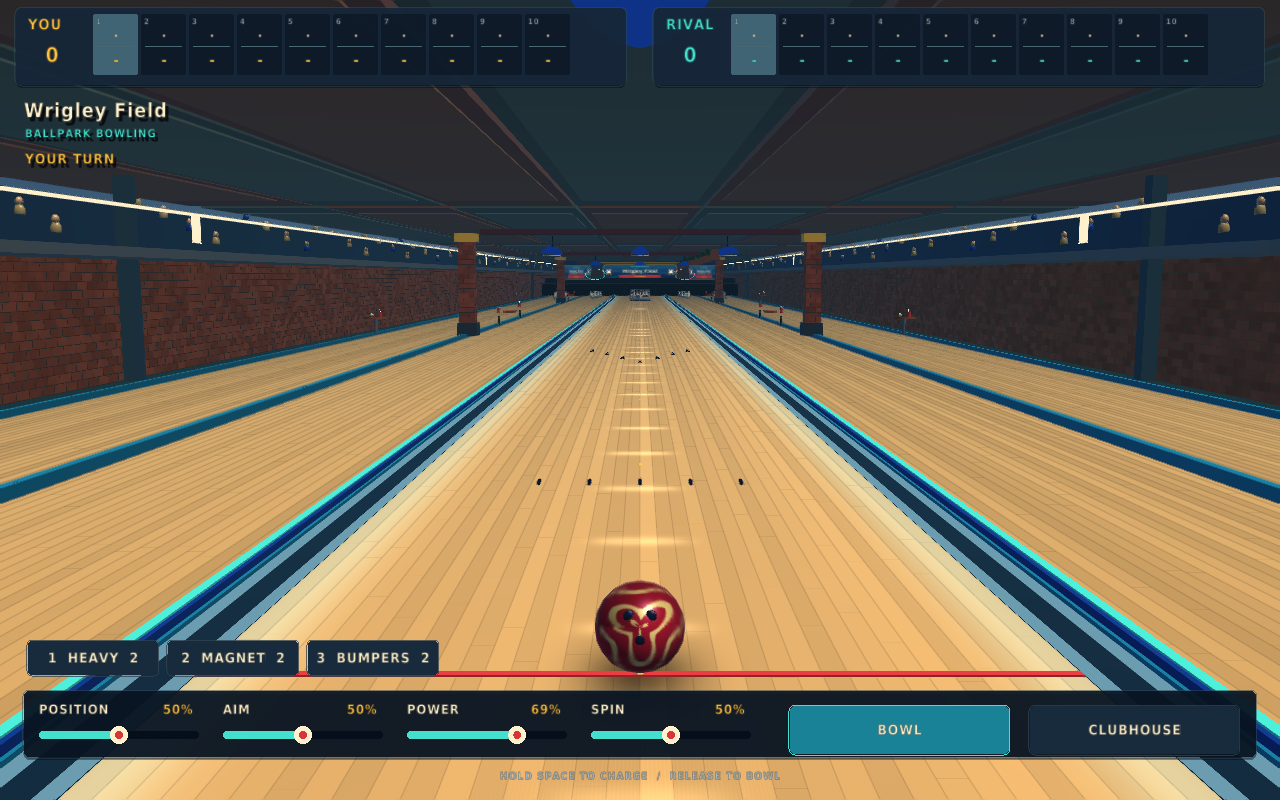
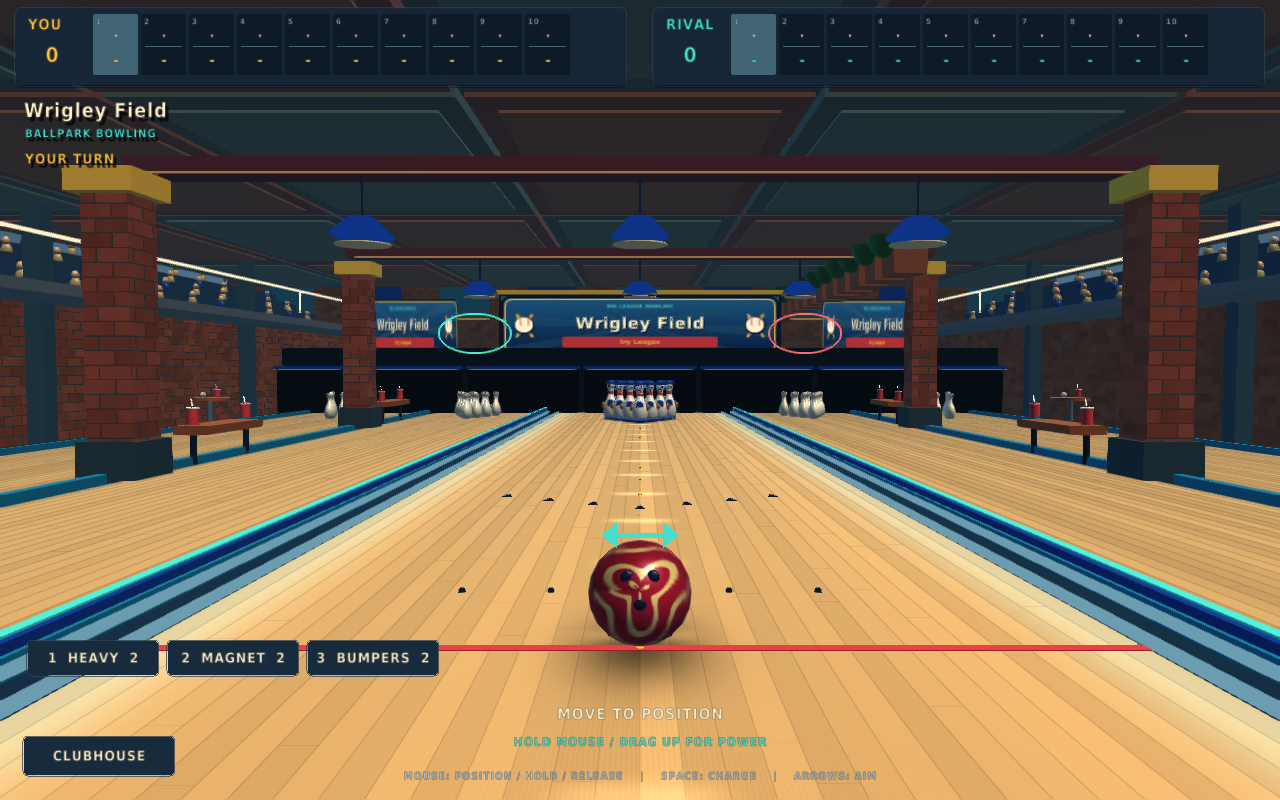
Use Zombies-style alley placement and drag power controls

diff --git a/native/src/main.cpp b/native/src/main.cpp
@@ -1,3 +1,4 @@
+#include "alley_controls.hpp"
 #include "art.hpp"
 #include "audio.hpp"
 #include "campaign.hpp"
@@ -101,6 +102,8 @@ int main(int argc, char **argv) {
     int state = 0, screen = startInGame || smoke ? 1 : 0, arena = previewArena < 0 ? 0 : previewArena,
         skin = 0, rolls = 0, ticks = 0, selectedSkin = 0;
     float time = 0, accum = 0, reaction = 0, chargeTime = 0, aiWait = .9f, celebration = 0;
+    Vector2 dragStart{};
+    bool mouseCharge = false;
     bool paused = false, charge = false, done = false, ok = false, awarded = false;
     std::string result = "WELCOME TO THE TOUR", reward;
     Camera3D camera{{0, 3.0f, -6.2f}, {0, 1.7f, 23}, {0, 1, 0}, 43, CAMERA_PERSPECTIVE};
@@ -189,15 +192,27 @@ int main(int argc, char **argv) {
                     shot.curve = std::clamp(
                         shot.curve + ((IsKeyDown(KEY_E) ? 1.f : 0) - (IsKeyDown(KEY_Q) ? 1.f : 0)) * dt,
                         -1.f, 1.f);
-                    if (IsKeyPressed(KEY_SPACE)) {
+                    bool alleyPointer = !match.mascot && GetMouseY() > 190 && GetMouseY() < 630;
+                    if (!match.mascot && !charge && alleyPointer &&
+                        (GetMouseDelta().x != 0 || GetMouseDelta().y != 0))
+                        shot.position = alleyPosition(GetMouseX());
+                    if (IsKeyPressed(KEY_SPACE) ||
+                        (alleyPointer && IsMouseButtonPressed(MOUSE_BUTTON_LEFT))) {
                         charge = true;
+                        mouseCharge = alleyPointer && IsMouseButtonPressed(MOUSE_BUTTON_LEFT);
+                        dragStart = GetMousePosition();
                         chargeTime = 0;
                     }
                     if (charge) {
                         chargeTime += dt;
-                        shot.power = .15f + .85f * (.5f - .5f * std::cos(chargeTime * 4));
+                        if (mouseCharge) {
+                            shot = alleyDrag(shot, GetMouseX() - dragStart.x, dragStart.y - GetMouseY());
+                        } else
+                            shot.power = .15f + .85f * (.5f - .5f * std::cos(chargeTime * 4));
                     }
-                    if (IsKeyReleased(KEY_SPACE) && charge)
+                    if (((!mouseCharge && IsKeyReleased(KEY_SPACE)) ||
+                         (mouseCharge && IsMouseButtonReleased(MOUSE_BUTTON_LEFT))) &&
+                        charge)
                         launch();
                     for (int i = 0; i < 3; ++i)
                         if (IsKeyPressed(KEY_ONE + i))
@@ -270,10 +285,13 @@ int main(int argc, char **argv) {
         art.arena = arena;
         art.skin = skin;
         art.mascot = match.mascot;
+        // The alley reference uses a deliberately compressed arcade perspective.
+        laneDepthScale = match.mascot ? (720.f / 41.5f) * 10.f / 21.f : 1.55f;
+        camera.fovy = match.mascot ? 43.f : 53.f;
         const auto &view = match.lanes[match.player];
-        Vector3 desired{shot.position * .25f - 1.25f, match.mascot ? 4.5f : 4.5f,
-                        match.mascot ? -9.0f : -9.0f},
-            look{0, -18.f, laneZ(23)};
+        Vector3 desired{shot.position * .25f - 1.25f, match.mascot ? 4.5f : 2.8f,
+                        match.mascot ? -9.0f : -5.8f},
+            look{0, match.mascot ? -18.f : 1.2f, laneZ(23)};
         if (screen != 1) {
             desired = match.mascot ? Vector3{-3.2f, 4.5f, -5} : Vector3{-9, 7, -4};
             look = {0, 1, match.mascot ? 13.f : 19.f};
@@ -419,7 +437,7 @@ int main(int argc, char **argv) {
                                   i % 2 ? gold : aqua);
                 }
             bool enabled = state == 0 && match.player == 0 && !paused;
-            if (state != 1 && state != 2) {
+            if ((state != 1 && state != 2) && (match.mascot || state == 3)) {
                 panel({24, 691, 1232, 66}, {10, 23, 37, 238});
                 slider("POSITION", 39, 702, 160, shot.position, .55f, 9.45f, enabled);
                 slider("AIM", 223, 702, 160, shot.aim, -1, 1, enabled);
@@ -438,6 +456,28 @@ int main(int argc, char **argv) {
                     charge = false;
                 }
             }
+            if (!match.mascot && state == 0 && human) {
+                float x = 240 + (shot.position - .55f) / 8.9f * 800;
+                if (!charge) {
+                    DrawLineEx({x - 28, 535}, {x + 28, 535}, 5, aqua);
+                    DrawTriangle({x - 39, 535}, {x - 23, 548}, {x - 23, 522}, aqua);
+                    DrawTriangle({x + 39, 535}, {x + 23, 522}, {x + 23, 548}, aqua);
+                    center("MOVE TO POSITION", 640, 705, 18, cream);
+                    center("HOLD MOUSE / DRAG UP FOR POWER", 640, 735, 14, aqua);
+                } else {
+                    panel({x - 21, 438, 42, 149}, ink);
+                    float fill = std::clamp((shot.power - .15f) / .85f, 0.f, 1.f) * 129;
+                    DrawRectangleRounded({x - 13, 577 - fill, 26, fill}, .2f, 8, aqua);
+                    for (int i = 1; i < 8; ++i)
+                        DrawLine(x - 13, 577 - i * 16, x + 13, 577 - i * 16, ink);
+                    center("DRAG TO AIM / RELEASE TO BOWL", 640, 705, 20, cream);
+                    center(std::to_string(int(shot.power * 100)) + "%", x, 596, 17, aqua);
+                }
+                if (button({24, 737, 150, 38}, "CLUBHOUSE")) {
+                    screen = 0;
+                    charge = false;
+                }
+            }
             if (state == 0) {
                 const char *names[] = {"1  HEAVY", "2  MAGNET", "3  BUMPERS"};
                 for (int i = 0; i < 3; ++i) {
@@ -447,8 +487,9 @@ int main(int argc, char **argv) {
                         match.equip(Power(i + 1));
                 }
             }
-            center(match.mascot ? "A / D  STEER     SPACE  BOOST"
-                                : "HOLD SPACE TO CHARGE  /  RELEASE TO BOWL",
+            center(match.mascot
+                       ? "A / D  STEER     SPACE  BOOST"
+                       : "MOUSE: POSITION / HOLD / RELEASE    |    SPACE: CHARGE    |    ARROWS: AIM",
                    640, 770, 12, {166, 190, 207, 255});
         }
         uiBlocked = false;

diff --git a/native/tests/campaign.cpp b/native/tests/campaign.cpp
@@ -1,4 +1,5 @@
 #include "campaign.hpp"
+#include "alley_controls.hpp"
 #include <iostream>
 #include <set>
 using namespace bowling;
@@ -7,6 +8,16 @@ void require(bool b, const char *s) {
         throw std::runtime_error(s);
 }
 int main() {
+    Shot input{};
+    input.position = 3;
+    input.curve = .2f;
+    auto drag = alleyDrag(input, 120, 90);
+    require(std::abs(drag.power - .65f) < .001f && drag.aim == .5f, "drag sets power and aim");
+    require(drag.position == 3 && drag.curve == .2f, "drag locks position and preserves spin");
+    require(alleyDrag(input, -1000, 1000).power == 1 && alleyDrag(input, -1000, 1000).aim == -1,
+            "drag upper bounds");
+    require(alleyDrag(input, 1000, -1000).power == .15f, "downward drag minimum power");
+    require(alleyPosition(-100) == .55f && alleyPosition(2000) == 9.45f, "placement clamps to lane");
     Profile p;
     require(p.balls() == 1 && p.stadiums() == 1, "initial unlocks");
     std::set<std::string> names;

diff --git a/native/src/alley_controls.hpp b/native/src/alley_controls.hpp
@@ -1,0 +1,12 @@
+#pragma once
+#include "game.hpp"
+namespace bowling {
+inline float alleyPosition(float mouseX) {
+    return std::clamp(.55f + (mouseX - 240.f) / 800.f * 8.9f, .55f, 9.45f);
+}
+inline Shot alleyDrag(Shot shot, float dx, float upward) {
+    shot.power = std::clamp(.15f + upward / 180.f, .15f, 1.f);
+    shot.aim = std::clamp(dx / 240.f, -1.f, 1.f);
+    return shot;
+}
+} // namespace bowling

diff --git a/native/src/art.hpp b/native/src/art.hpp
@@ -4,7 +4,7 @@
 #include "raymath.h"
 #include "rlgl.h"
 #include "ui.hpp"
-inline constexpr float laneDepthScale = (720.f / 41.5f) * 10.f / 21.f;
+inline float laneDepthScale = (720.f / 41.5f) * 10.f / 21.f;
 inline float laneZ(float z) {
     return z <= 23.f ? 2.f + (z - 2.f) * laneDepthScale : 2.f + 21.f * laneDepthScale + (z - 23.f);
 }

diff --git a/native/ART_DIRECTION.md b/native/ART_DIRECTION.md
@@ -42,3 +42,9 @@ A cloud refresh removed the prior uncommitted native files. The native implement
 The rendered foul-line-to-head-pin distance now uses 60 feet / 41.5 inches (17.35 lane widths). The simulation still uses normalized arcade coordinates and existing shot timing; this is a presentation conversion, not a regulation physics rewrite. Rack depth is preserved after the head pin to avoid stretching the pin triangle. Characters remain stylized. Small scenery props retain their depth while the lane and enclosing scenery extend longitudinally. The following camera uses converted positions.
 
 Removed riveted panel borders and the right-side power tower. Powers are compact buttons above the shot bar; shot controls disappear during travel/reaction. Menu panels share the simpler treatment. The launch camera pitches down to keep the rider clear of the bottom controls.
+
+## Zombies reference correction
+
+The second Dropbox clip is now accessible: 26.333 seconds. Sampled frames (including 0.5-second samples around 12–21 seconds) show lateral placement arrows, a vertical green meter, launch and following camera. This supersedes the earlier unavailable-reference notes. Mouse button events are not visible: upward drag for power, lateral drag for aim and release-to-launch are an inferred mapping, not verified original input internals. Space retains the timed keyboard alternative. Traditional uses the new on-lane UI instead of four sliders.
+
+The previous 17.35:1 presentation stretched the entire hall and was a poor match for this arcade reference. Traditional mode now deliberately compresses lane depth (1.55 times normalized coordinates), with restored close scenery and a 53-degree camera. It is not presented as a regulation simulation. Mascot presentation is unchanged.

diff --git a/native/docs/VALIDATION.md b/native/docs/VALIDATION.md
@@ -37,3 +37,11 @@ The source, assets, scripts, tests, art direction and this evidence are preserve
 ## Lane/HUD follow-up
 
 Linux build and rules/campaign suites pass. Full graphical matches completed: traditional 37 rolls (115–119), mascot 41 rolls (72–35). Launch screenshots were regenerated after the camera framing correction. Windows was cross-built again; execution remains unverified. The `tropicana-in-motion.png` image above belongs to the earlier graphics pass; the two launch screenshots show the current lane/HUD.
+
+## Zombies controls and alley correction
+
+The 26.333-second Zombies clip is now accessible and was visually sampled, including 2 fps through the control sequence. Traditional's stretched hall was replaced with a compressed arcade presentation. The on-lane marker/power meter follows the observed visual stages; exact button semantics remain inferred.
+
+Linux build passed all nine physics/rules scenarios and the campaign suite, including new drag power/aim, locked position, bounds and downward-drag checks. Both graphical matches passed (traditional 37 rolls, 115–119; mascot 41 rolls, 72–35). Real X11 mouse movement/press/drag was injected into the native window and the 81% held-power screenshot was visually checked. Windows cross-build and ZIP verification passed; Windows execution remains unverified.
+
+A second real X11 input run pressed, dragged and released the mouse. The captured result showed the ball at the pin deck, fallen pins and the following camera, confirming release launches the shot. The original game's exact mouse-button semantics still cannot be proven from a screen recording alone.

diff --git a/HANDOFF.md b/HANDOFF.md
@@ -35,3 +35,5 @@ The user cannot download workspace or sandbox links in browser Codex. They provi
 The original task workspace contains /workspace/baseball-bowling/dist/Big-League-Bowling-Windows-x64.zip (~132 MB), plus source and dependencies. Those files may not survive a move to another environment; source and lockfile here reproduce the build. Generated outputs and node_modules are intentionally excluded from Git.
 
 Latest follow-up: rendered lane proportions use the 60 ft / 41.5 in ratio, converted from normalized simulation coordinates. Shot timing/physics remain arcade-style. HUD has simpler panels/buttons, horizontal powers, and hides shot controls in motion. See ART_DIRECTION.md and VALIDATION.md for scope and checks. The prior artifact backup is the earlier graphics build; rebuild the latest Windows ZIP from source.
+
+Latest Zombies follow-up: second Dropbox clip successfully inspected (26.333 s). Traditional now uses mouse placement, upward drag power, sideways drag aim and release-to-launch, with a vertical meter instead of sliders. Mouse events are inferred, not verified from video. Traditional hall depth was restored to compressed arcade proportions after the regulation-ratio scene stretch looked wrong. Mascot remains separate. See the latest sections in ART_DIRECTION.md and REFERENCE_REVIEW.md.

diff --git a/native/README.md b/native/README.md
@@ -15,7 +15,7 @@ C++17 + raylib 5.5 desktop prototype. The native work lost in the cloud refresh 
 
 ## Controls
 
-A/D position; arrows aim; Q/E curve; sliders adjust all shot values. Hold Space to time power and release to bowl, or press LET IT RIP. In Mascot Ride, arrows/A/D steer after launch and Space boosts once. Keys 1/2/3 select a power before launch. Escape pauses, M toggles sound, F11 toggles fullscreen. The clubhouse selects mode, stadium and ball. A rematch is available after scoring.
+Traditional alley: move the mouse over the lane to position the ball, hold left mouse and drag upward for power / sideways for aim, then release to bowl. The position locks during a drag. A/D position; arrows aim; Q/E curve; sliders adjust all shot values. Hold Space to time power and release to bowl, or press LET IT RIP. In Mascot Ride, arrows/A/D steer after launch and Space boosts once. Keys 1/2/3 select a power before launch. Escape pauses, M toggles sound, F11 toggles fullscreen. The clubhouse selects mode, stadium and ball. A rematch is available after scoring.
 
 ## Graphics and limits
 

diff --git a/native/docs/REFERENCE_REVIEW.md b/native/docs/REFERENCE_REVIEW.md
@@ -28,3 +28,7 @@ python3 native/headless.py --play --mascot --arena 9 --demo-shot --capture-frame
 ```
 
 Screenshots use fixed simulation steps and do not write career progress. They are actual native-game captures, not concept renders.
+
+## Second clip now inspected
+
+The user's second Dropbox file is 26.333 seconds and shows Zombie Bowl-a-Rama. At 10–16 seconds the player positions the ball using a green horizontal marker; around 16.5–19 seconds a vertical green power indicator appears; around 19 seconds the ball launches and the camera follows. Sampled at 2 fps through this control sequence. The footage supports these visual stages but does not reveal mouse-button events. Our drag/release mapping is an implementation inference. No original video or private Dropbox URL is included in source.
